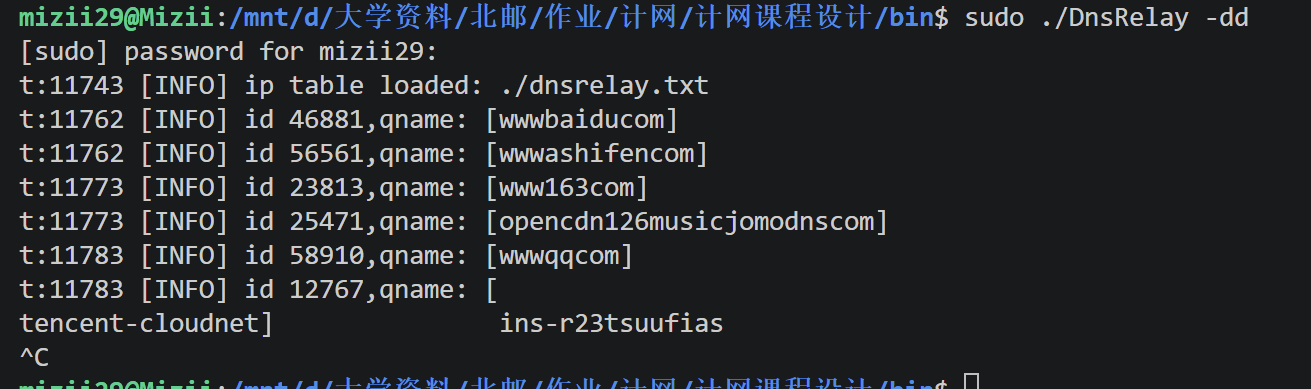
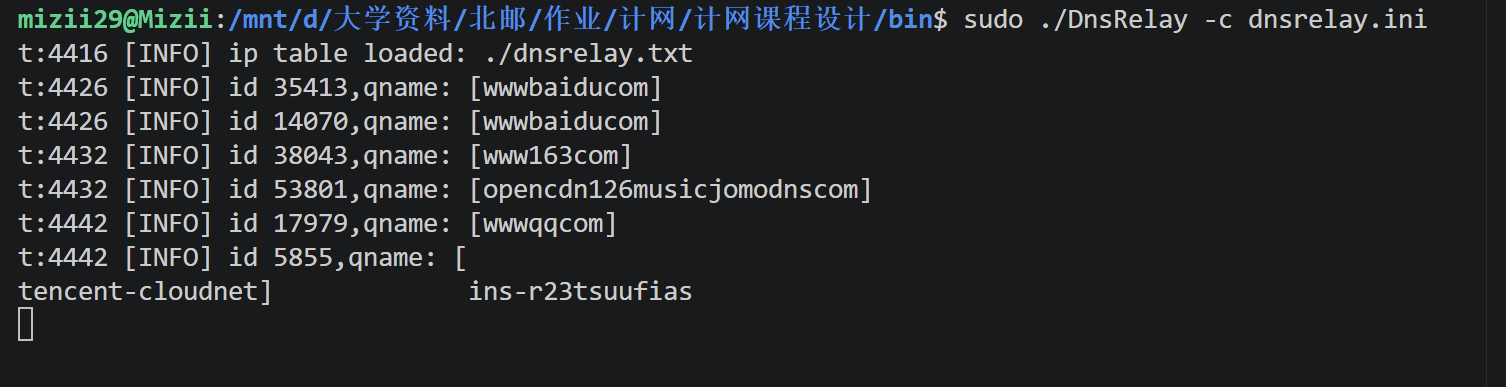
更新实验报告2

diff --git a/docs/report/实验报告.md b/docs/report/实验报告.md
@@ -1241,9 +1241,9 @@ TRACE=./debug.txt
 2. 发起不同域名的DNS查询：
 
 ```c
-nslookup domain1.example.com 127.0.0.1
-nslookup domain2.example.com 127.0.0.1
-nslookup domain3.example.com 127.0.0.1
+nslookup www.baidu.com 127.0.0.1
+nslookup www.163.com 127.0.0.1
+nslookup www.qq.com 127.0.0.1
 ```
 
 3. 验证每次转发的目标上游服务器